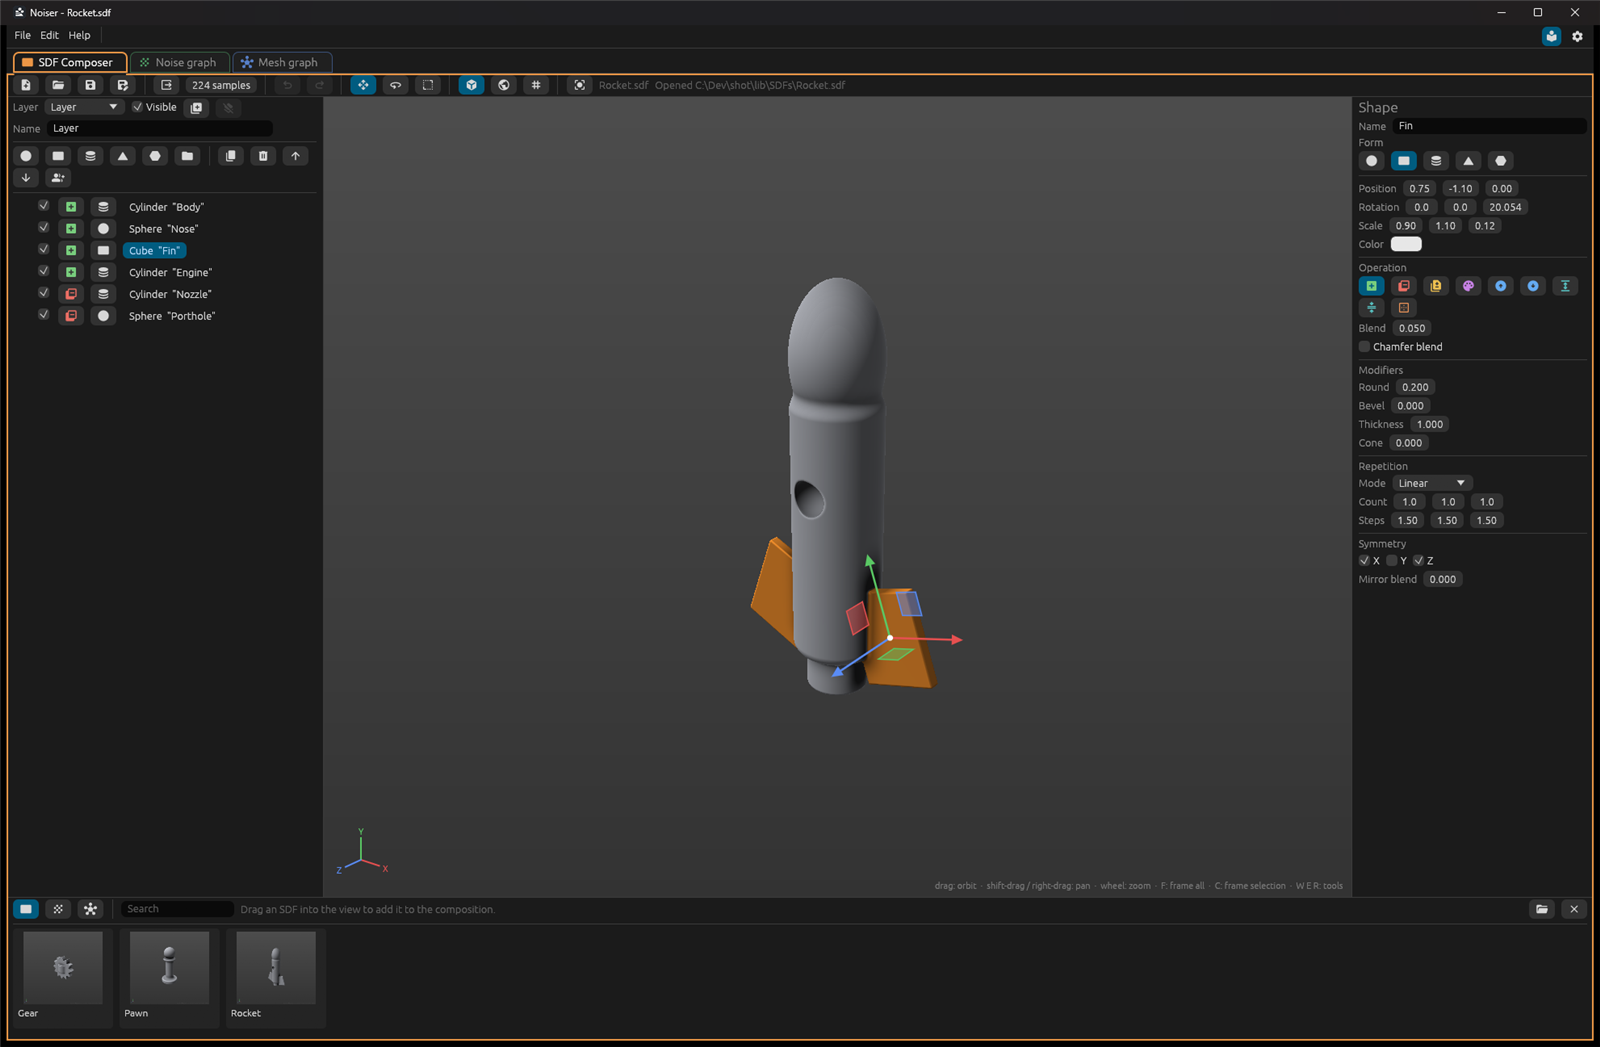
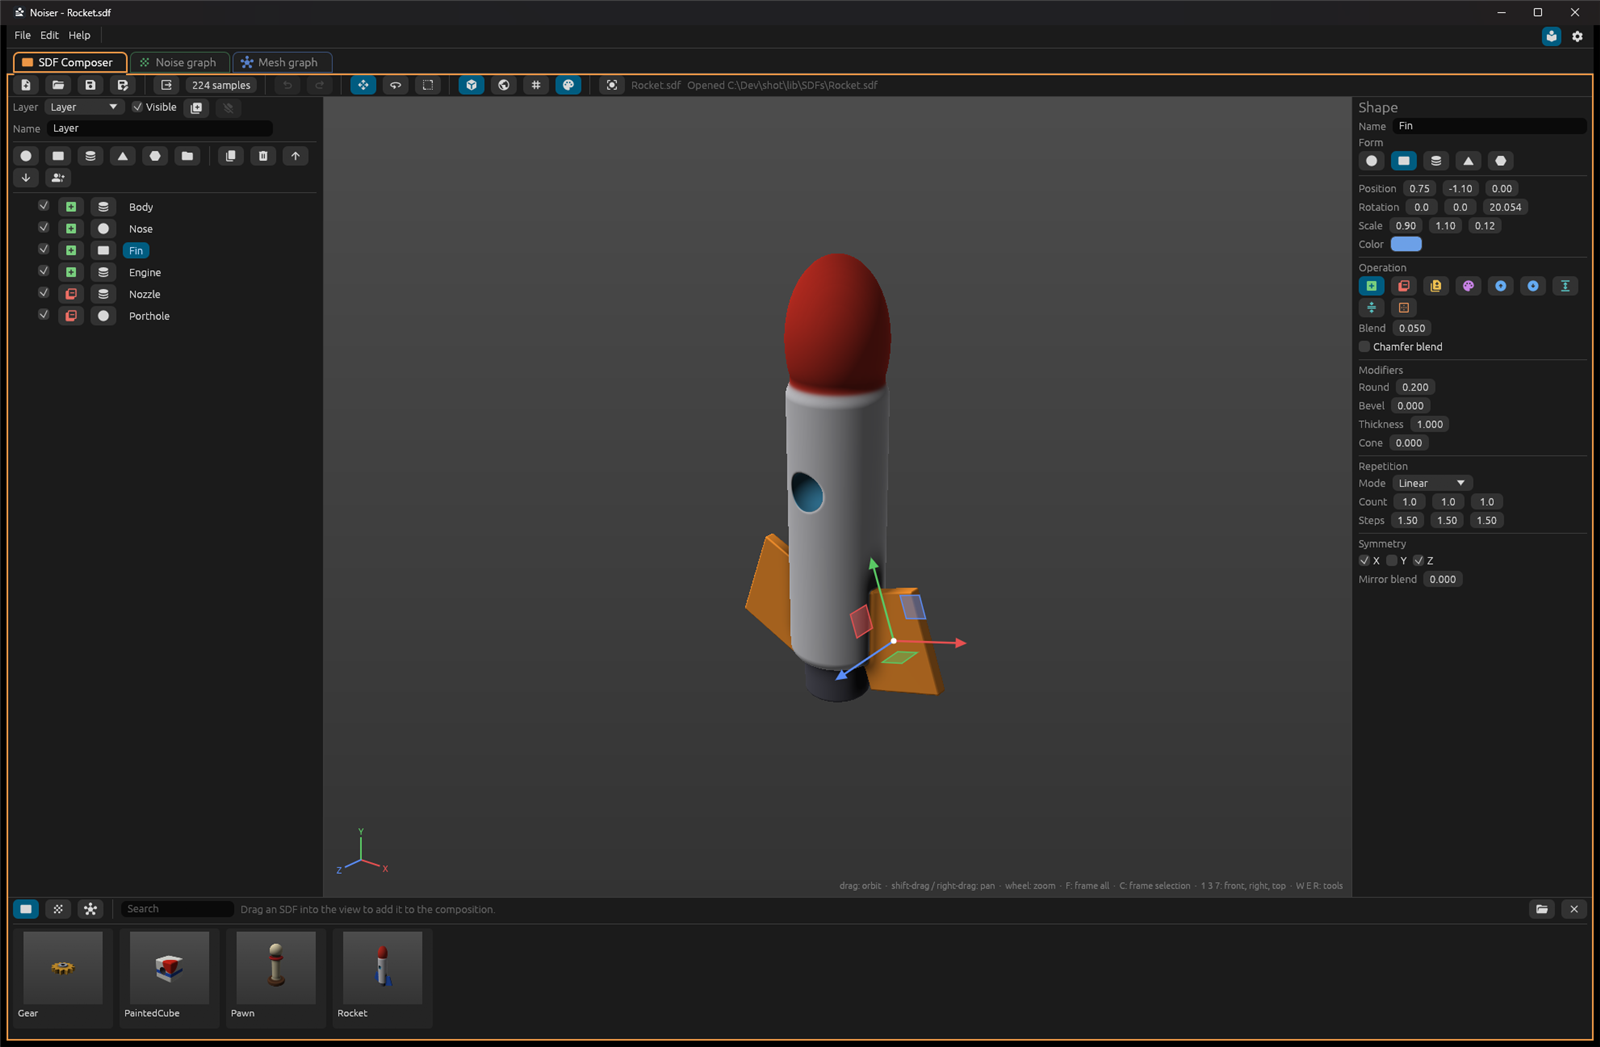
README screenshots: coloured Composer, the relative-path mesh graph without a ball

diff --git a/README.md b/README.md
@@ -8,7 +8,7 @@ also displace low-polygon meshes (single files or whole batches, from the app or
 Everything is evaluated on the GPU (Rust, egui, wgpu). Resolution never limits the detail: the graph
 stays a function, and exports sample it at whatever resolution you ask for.
 
-The three tabs: the **SDF Composer** (build and edit shapes, with the library drawer along the bottom), the **Noise graph** (a Warped cells graph, with its 3D view and slice) and the **Mesh graph** (a rocket from the Composer roughened by a noise graph, shown as the ray-marched field and as the remeshed result).
+The three tabs: the **SDF Composer** (build and edit shapes, with the library drawer along the bottom), the **Noise graph** (a Warped cells graph, with its 3D view and slice) and the **Mesh graph** (a rocket from the Composer roughened by a noise graph, shown as the ray-marched field and as the remeshed result; no mesh file is needed, the Load SDF node is the only input).
 
 ![The SDF Composer with the move gizmo on a fin, and the library drawer](docs/screenshots/composer.png)
 ![The Noise graph tab with a Warped cells graph](docs/screenshots/noise-graph.png)
